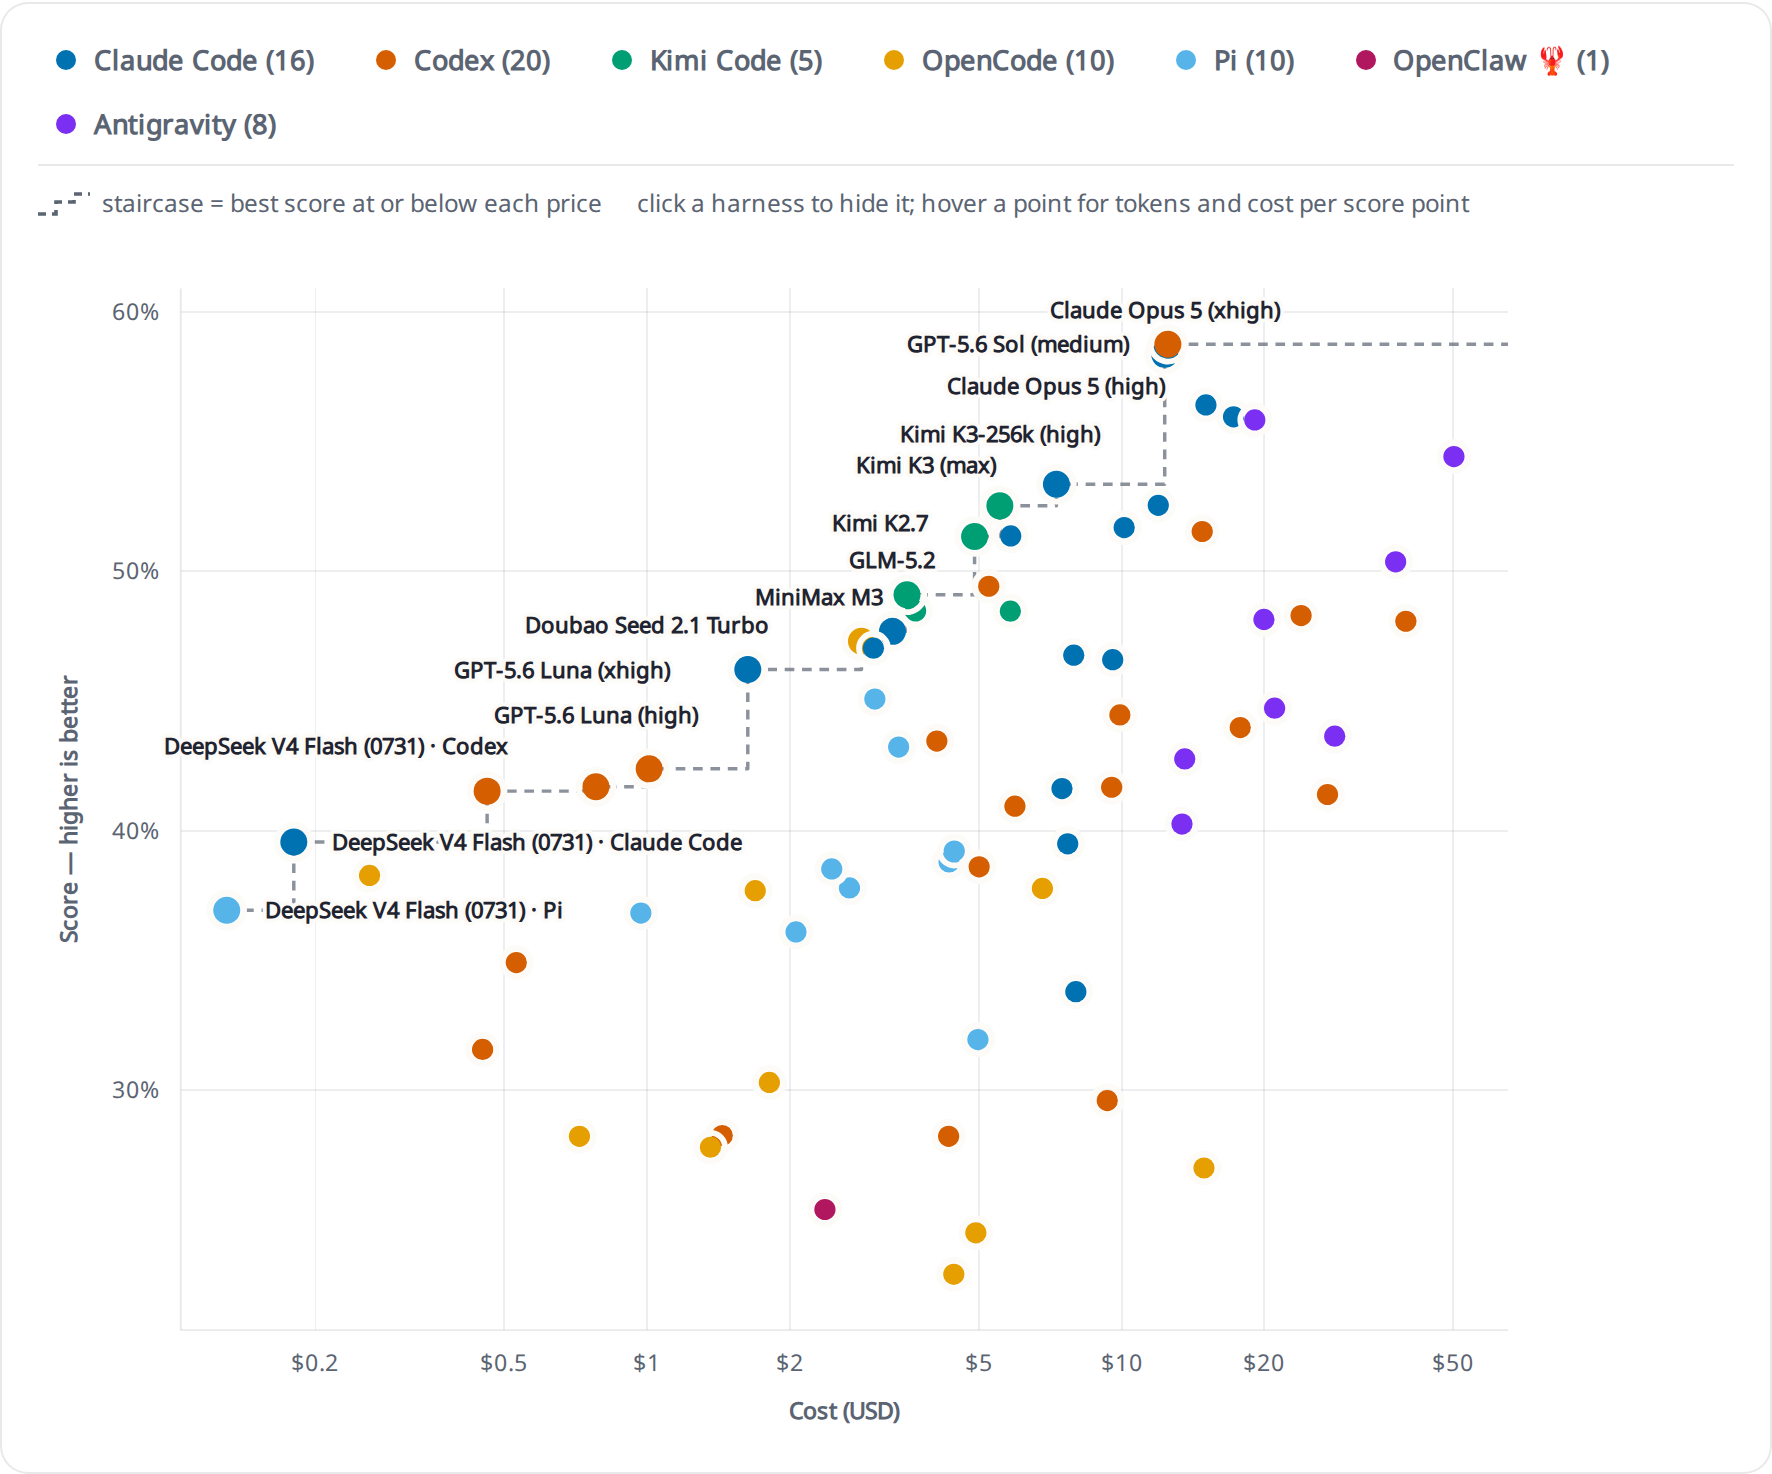
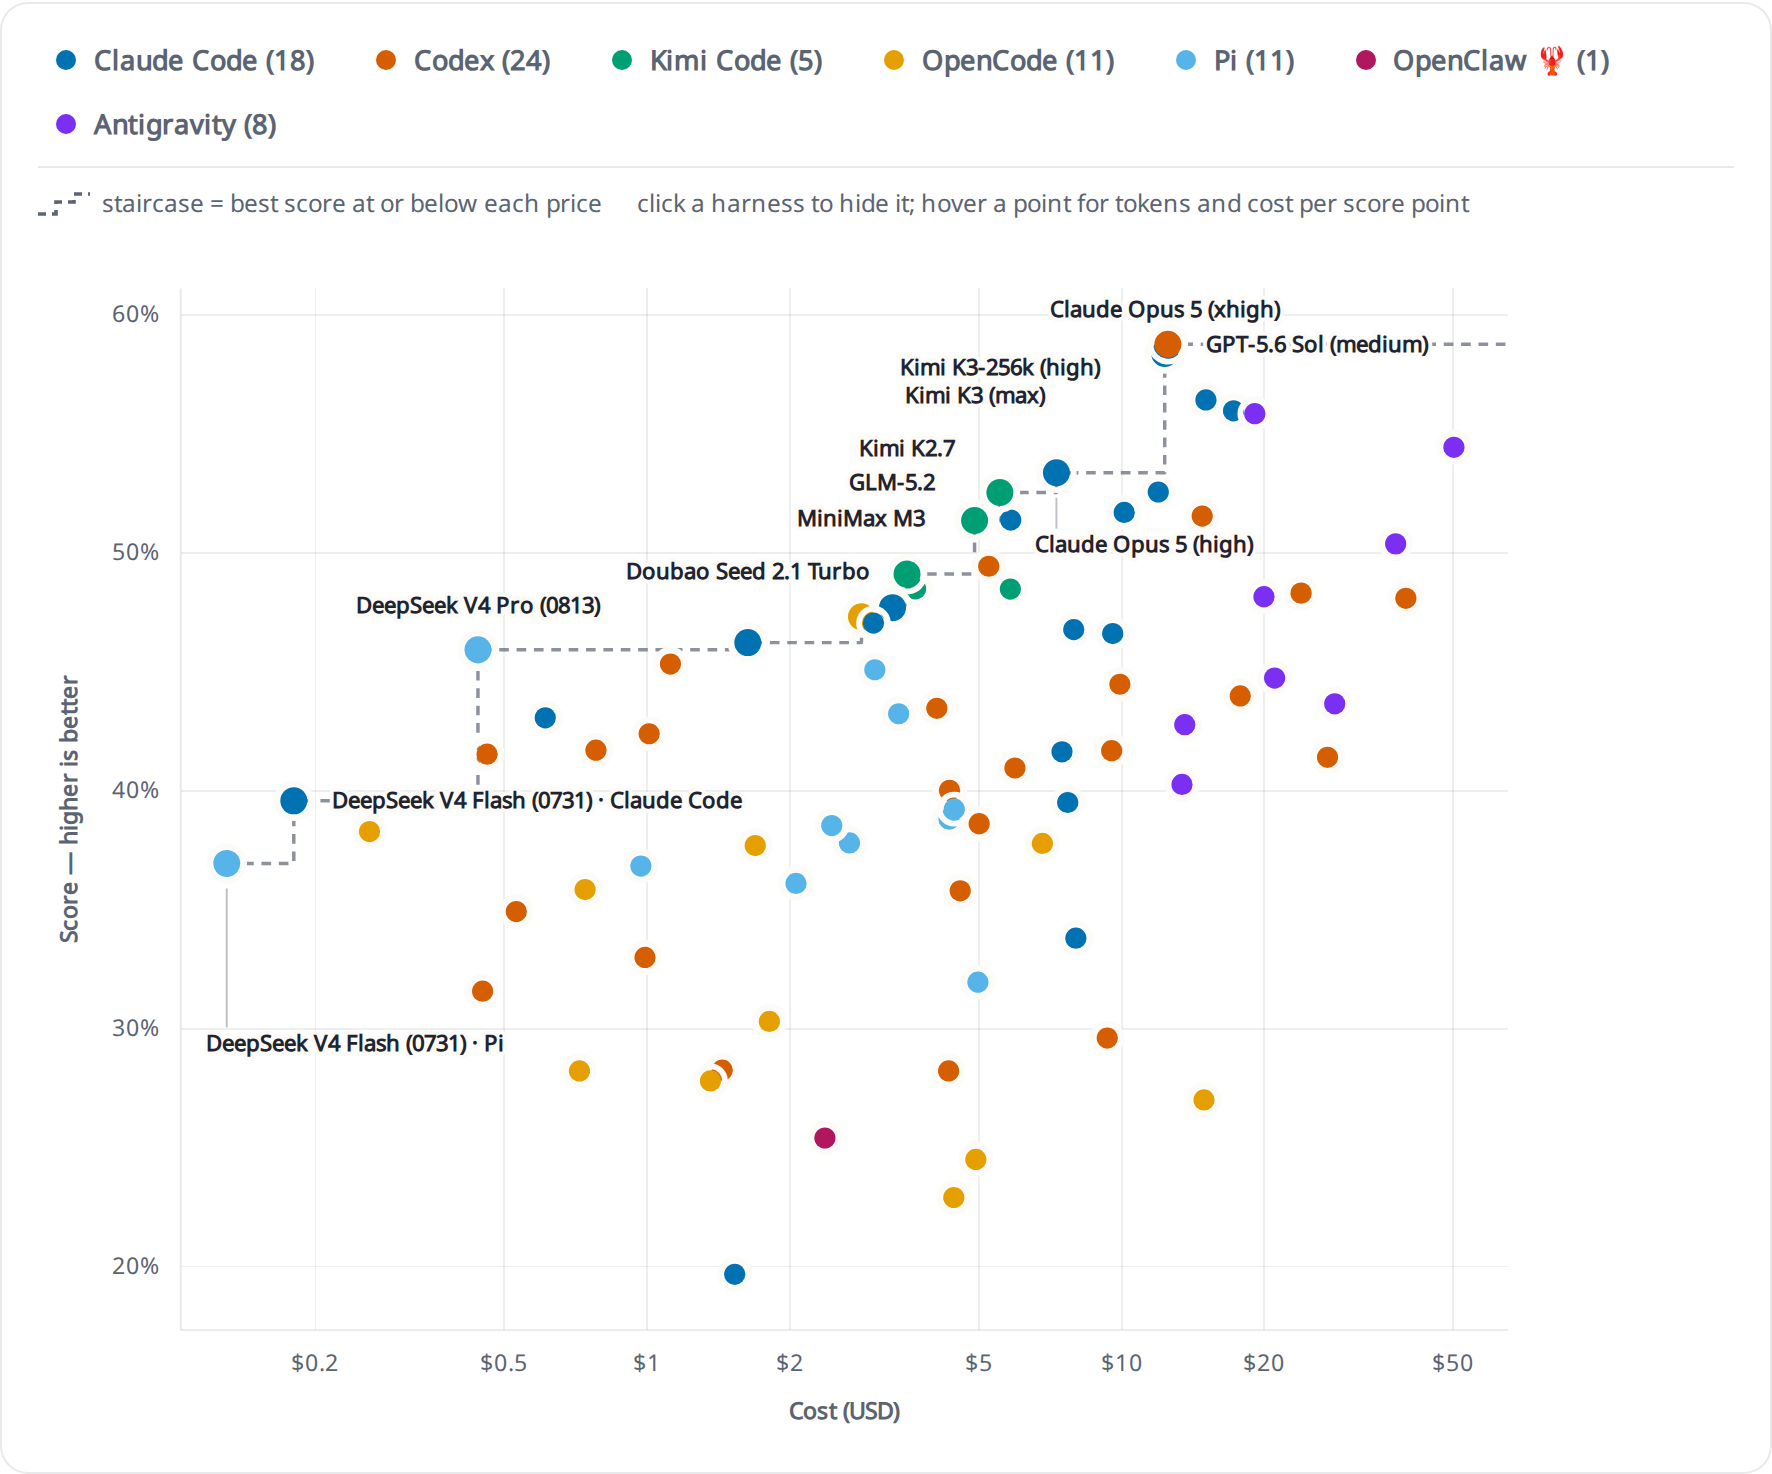
Update price-performance charts

diff --git a/README_zh.md b/README_zh.md
@@ -68,14 +68,14 @@ ATM-Bench-Hard 上的通用智能体结果如下。QS 分数使用 `gpt-5-mini` 
 
 <a href="https://atmbench.github.io/leaderboard.html">
   <img src="docs/images/price-performance-full-light.png" width="100%"
-    alt="ATM-Bench-Hard 得分对运行成本的散点图，包含全部已计价的智能体运行，成本为对数轴（$0.13 至 $50.18），按编程智能体着色。虚线阶梯为帕累托前沿，即在该价位及以下可达的最高得分。前沿从 Pi 上的 DeepSeek V4 Flash（$0.13，36.9%）起，经同一模型在 Claude Code 与 Codex 上的运行、GPT-5.6 Luna、Doubao Seed 2.1 Turbo、MiniMax M3、GLM-5.2 以及 Kimi K2.7 与 K3 各档，至 Claude Opus 5 (xhigh)（$12.33，58.4%）与 GPT-5.6 Sol (medium)（$12.52，58.8%）。前沿在 $5 以下陡升，之后趋于平缓。">
+    alt="ATM-Bench-Hard 得分对运行成本的散点图，包含全部已计价的智能体运行，成本为对数轴（$0.13 至 $50.18），按编程智能体着色。虚线阶梯为帕累托前沿，即在该价位及以下可达的最高得分。前沿从 Pi 上的 DeepSeek V4 Flash（$0.13，36.9%）起，经同一模型在 Claude Code 上的运行、Pi 上的 DeepSeek V4 Pro（$0.44，45.9%）、Doubao Seed 2.1 Turbo、MiniMax M3、GLM-5.2 以及 Kimi K2.7 与 K3 各档，至 Claude Opus 5 (xhigh)（$12.33，58.4%）与 GPT-5.6 Sol (medium)（$12.52，58.8%）。前沿在 $5 以下陡升，之后趋于平缓。">
 </a>
 
 ### 成本 – 得分
 
 <a href="https://atmbench.github.io/leaderboard.html">
   <img src="docs/images/price-performance-light.png" width="100%"
-    alt="ATM-Bench-Hard 得分对运行成本的散点图，成本为对数轴（$0.26 至 $39.74）。折线连接同一模型的各推理强度档位，菱形表示单一配置运行。GPT-5.6 Sol 以 $12.52 取得 58.8%，Claude Opus 5 以 $12.33 取得 58.4%；Kimi K3-256k 以 $5.54 取得 52.5%，Gemini 3.6 Flash 以 $19.96 取得 48.2%，Claude Code 上的 GLM-5.2 以 $3.29 取得 47.7%，GPT-5.6 Luna 以 $1.01 取得 42.4%。">
+    alt="ATM-Bench-Hard 得分对运行成本的散点图，成本为对数轴（$0.26 至 $39.74）。折线连接同一模型的各推理强度档位，菱形表示单一配置运行。GPT-5.6 Sol 以 $12.52 取得 58.8%，Claude Opus 5 以 $12.33 取得 58.4%；Kimi K3-256k 以 $5.54 取得 52.5%，Gemini 3.6 Flash 以 $19.96 取得 48.2%，Claude Code 上的 GLM-5.2 以 $3.29 取得 47.7%，Pi 上的 DeepSeek V4 Pro 以 $0.44 取得 45.9%，GPT-5.6 Luna 以 $1.01 取得 42.4%。">
 </a>
 
 这是 2026-06-28 的精选快照，刻意保持简短：其中不含此后新增的模型（DeepSeek V4 Flash、

diff --git a/README.md b/README.md
@@ -67,14 +67,14 @@ General-Purpose Agent results on ATM-Bench-Hard are summarized below. The QS sco
 
 <a href="https://atmbench.github.io/leaderboard.html">
   <img src="docs/images/price-performance-full-light.png" width="100%"
-    alt="Scatter of ATM-Bench-Hard score against run cost for every priced agent run, on a log cost axis from $0.13 to $50.18, coloured by coding harness. A dashed staircase marks the Pareto frontier — the best score reachable at or below each price. The frontier runs from DeepSeek V4 Flash on Pi at 36.9% for $0.13, through the same model on Claude Code and Codex, GPT-5.6 Luna, Doubao Seed 2.1 Turbo, MiniMax M3, GLM-5.2 and the Kimi K2.7 and K3 tiers, to Claude Opus 5 (xhigh) at 58.4% for $12.33 and GPT-5.6 Sol (medium) at 58.8% for $12.52. It rises steeply below $5 and is almost flat above it.">
+    alt="Scatter of ATM-Bench-Hard score against run cost for every priced agent run, on a log cost axis from $0.13 to $50.18, coloured by coding harness. A dashed staircase marks the Pareto frontier — the best score reachable at or below each price. The frontier runs from DeepSeek V4 Flash on Pi at 36.9% for $0.13, through the same model on Claude Code, DeepSeek V4 Pro on Pi at 45.9% for $0.44, Doubao Seed 2.1 Turbo, MiniMax M3, GLM-5.2 and the Kimi K2.7 and K3 tiers, to Claude Opus 5 (xhigh) at 58.4% for $12.33 and GPT-5.6 Sol (medium) at 58.8% for $12.52. It rises steeply below $5 and is almost flat above it.">
 </a>
 
 ### Price vs. Performance
 
 <a href="https://atmbench.github.io/leaderboard.html">
   <img src="docs/images/price-performance-light.png" width="100%"
-    alt="ATM-Bench-Hard score plotted against run cost on a log axis from $0.26 to $39.74. Lines join each model's reasoning-effort tiers; diamonds are single-configuration runs. GPT-5.6 Sol peaks at 58.8% for $12.52 and Claude Opus 5 reaches 58.4% for $12.33; Kimi K3-256k reaches 52.5% for $5.54, Gemini 3.6 Flash 48.2% for $19.96, GLM-5.2 under Claude Code 47.7% for $3.29, and GPT-5.6 Luna 42.4% for $1.01.">
+    alt="ATM-Bench-Hard score plotted against run cost on a log axis from $0.26 to $39.74. Lines join each model's reasoning-effort tiers; diamonds are single-configuration runs. GPT-5.6 Sol peaks at 58.8% for $12.52 and Claude Opus 5 reaches 58.4% for $12.33; Kimi K3-256k reaches 52.5% for $5.54, Gemini 3.6 Flash 48.2% for $19.96, GLM-5.2 under Claude Code 47.7% for $3.29, DeepSeek V4 Pro under Pi 45.9% for $0.44, and GPT-5.6 Luna 42.4% for $1.01.">
 </a>
 
 
